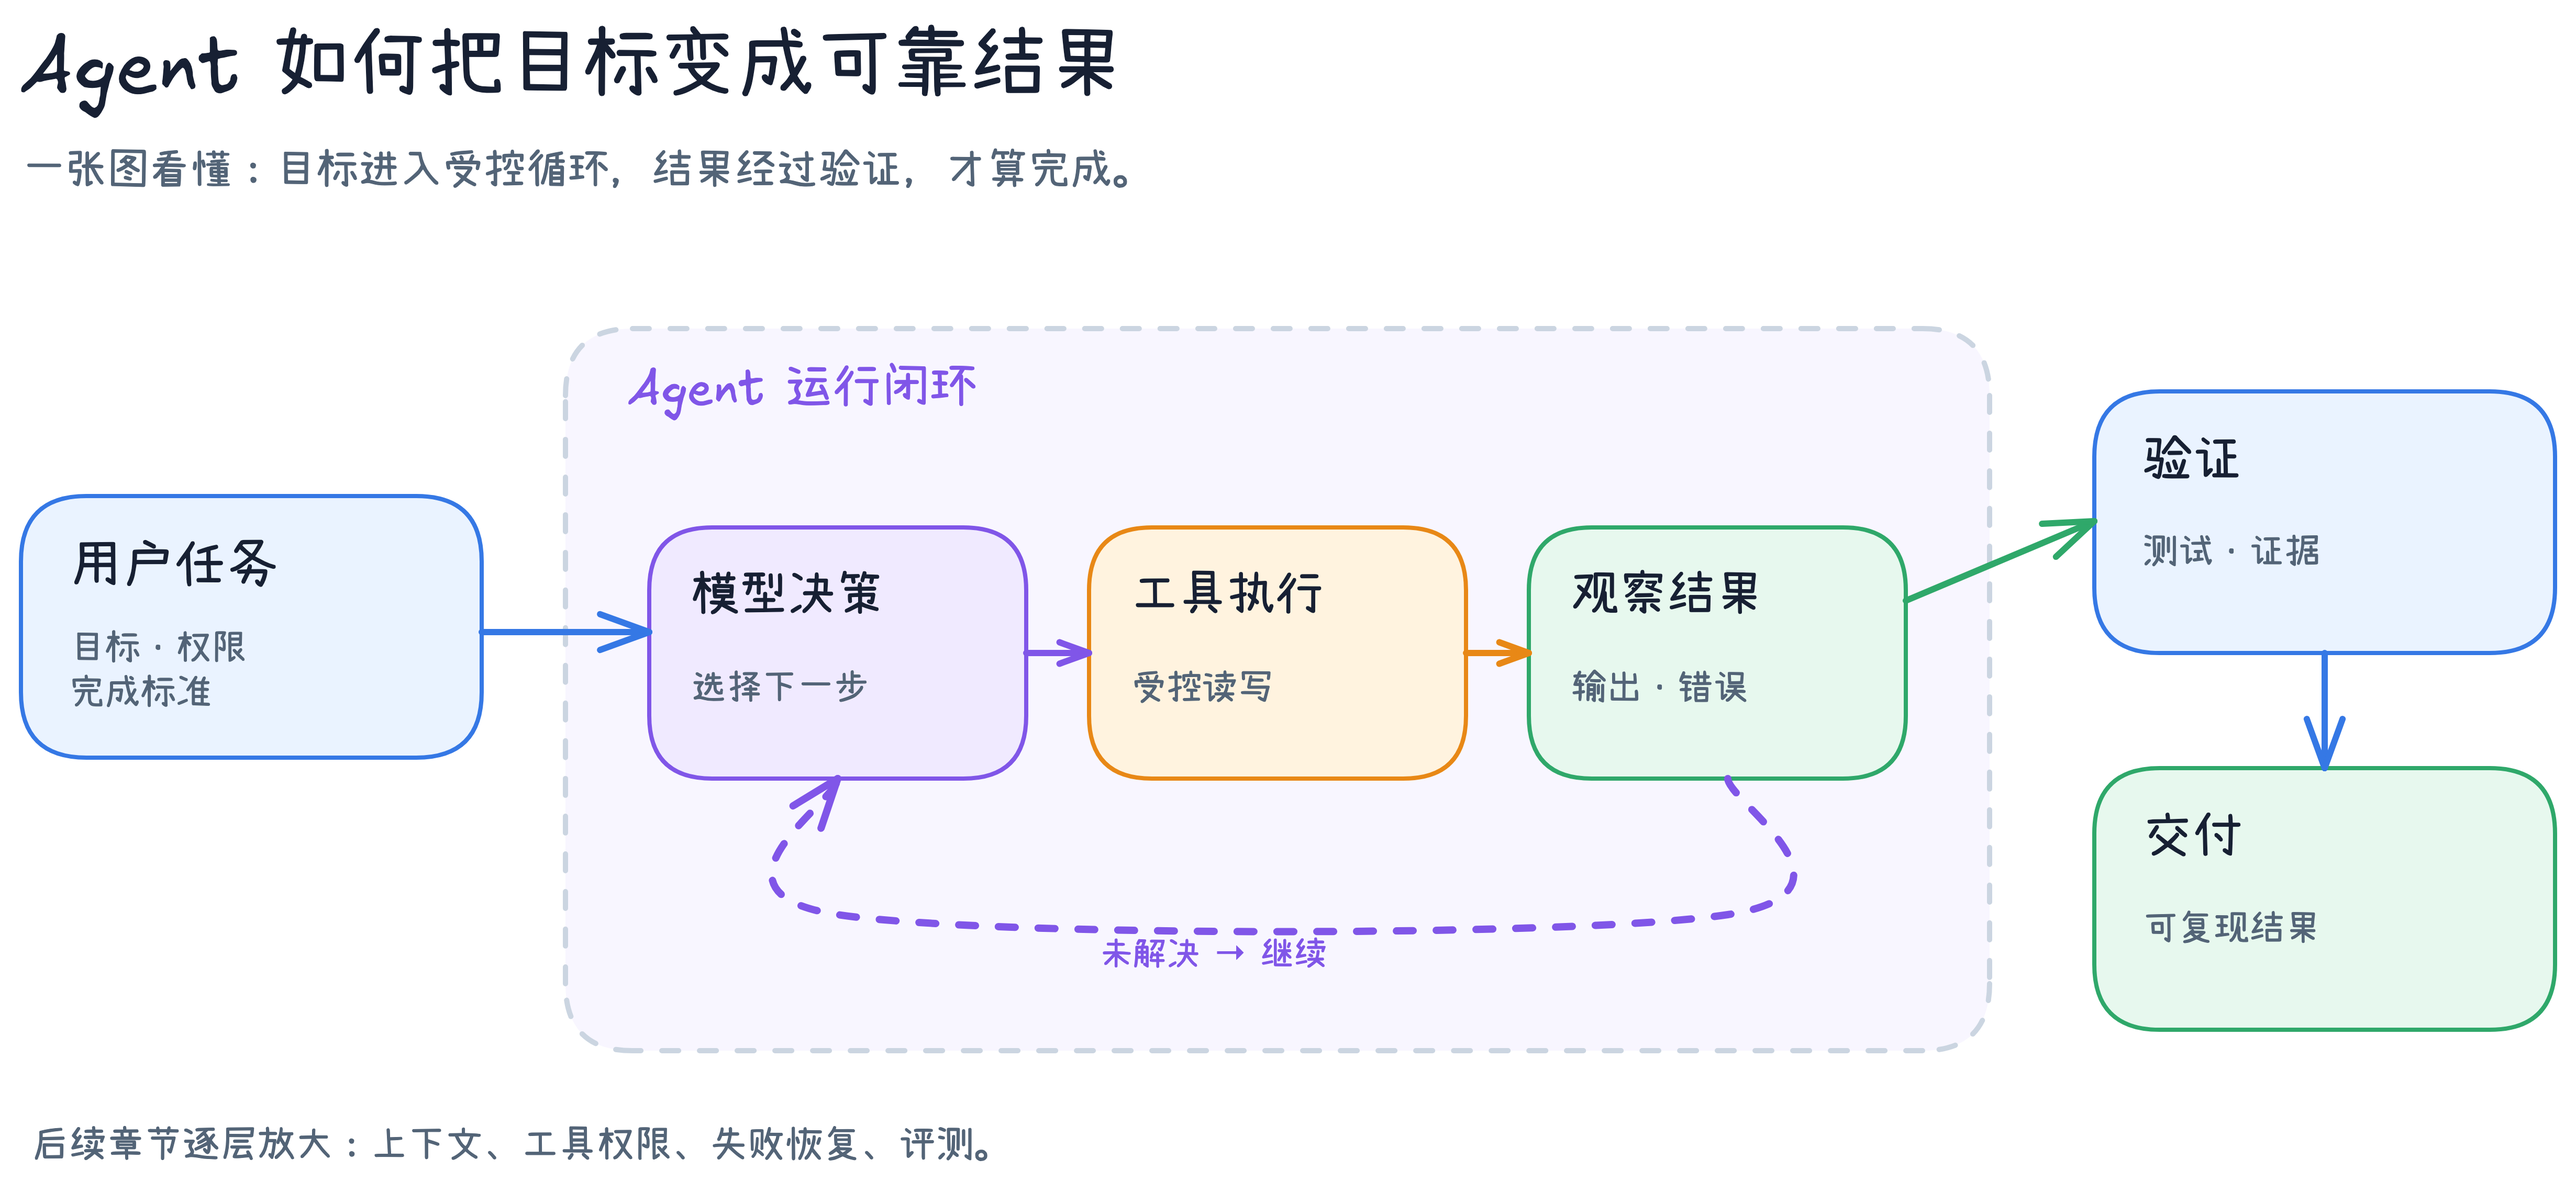
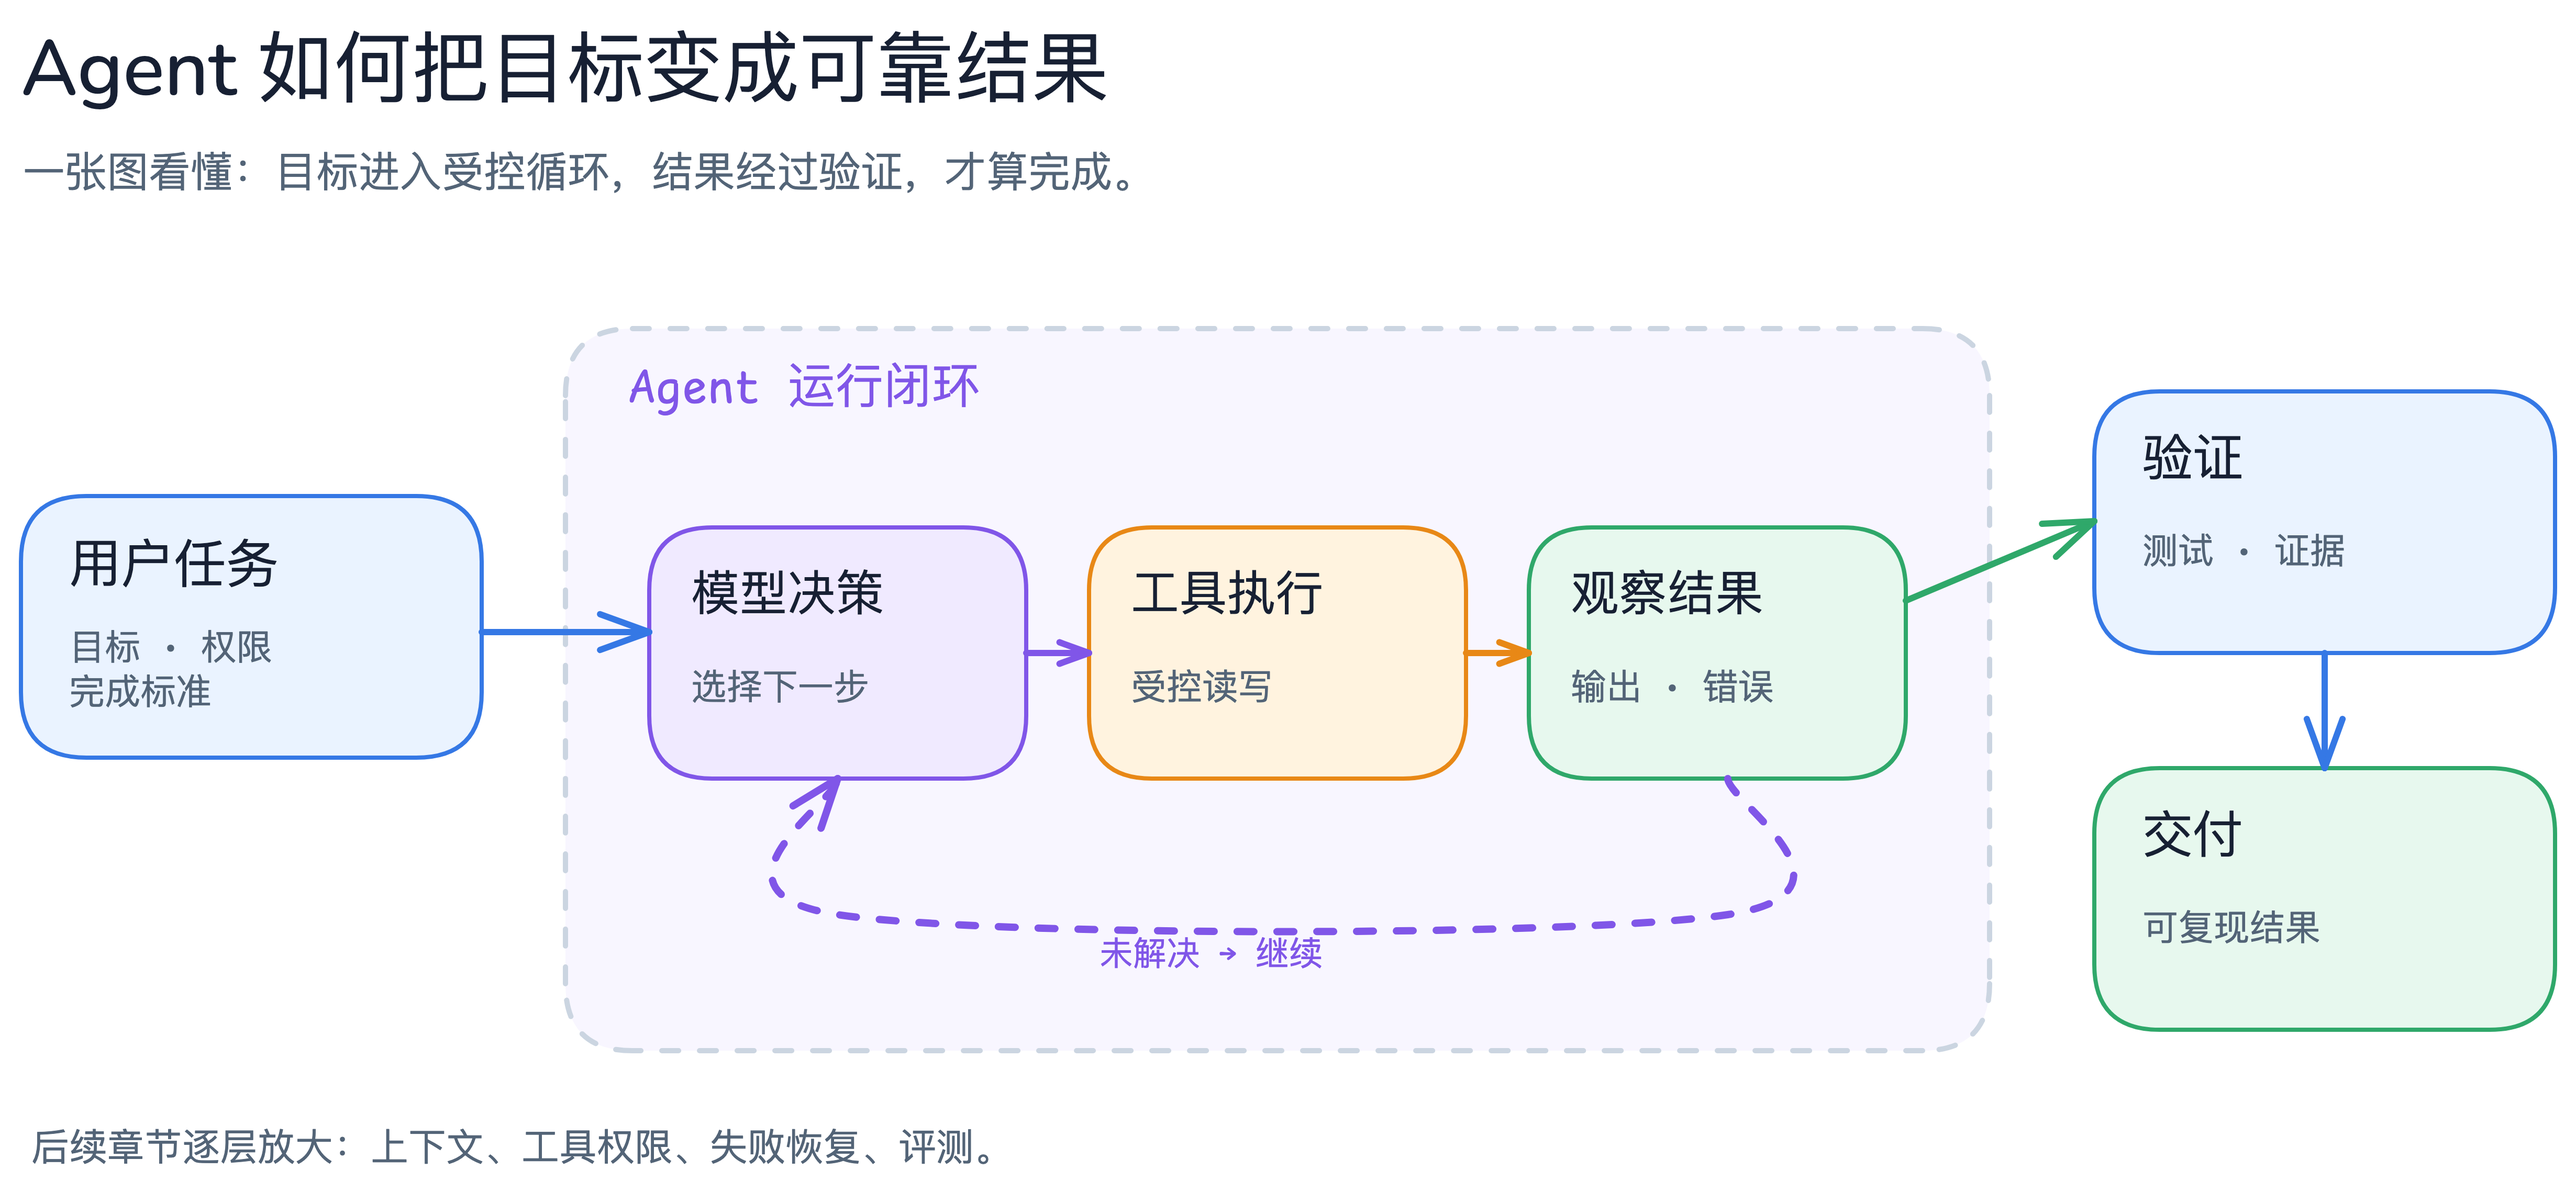
Refine guide roadmap and diagram typography

diff --git a/docs/roadmap.md b/docs/roadmap.md
@@ -11,6 +11,24 @@
 
 横向对照页回答“同一个机制为什么有不同实现”，不复制各项目剖面的全文。
 
+### 读者路线与章节骨架
+
+第一条是“从一次任务看完整生命周期”：目标和完成标准 → Agent loop → 工具调用与权限 → 结果验证 → 失败恢复。第二条是“状态如何延续”：消息与上下文装配 → 会话、截断与压缩 → 长期记忆与检索 → 跨任务复用。第三条是“把设计落到项目”：先看概念图，再进入固定版本的源码剖面，最后用横向对照理解取舍。三条路线互相链接，但不要求读者按项目名顺序阅读。
+
+每个机制章节先回答一个具体问题，随后给出最小例子、主图、逐步解读、边界与反例、系统映射和可核对的来源。图既是导航，也是正文的一部分；不能用一张“总架构图”代替状态变化和失败路径。
+
+| 机制主题 | 主图要回答的问题 | 优先连接的系统 |
+| --- | --- | --- |
+| Agent loop 与工具调用 | 模型何时决策、工具何时执行、结果怎样反馈？ | Pi、Codex、mini-SWE-agent |
+| 上下文管理 | 本轮输入由谁装配，窗口不够时丢弃或压缩什么？ | Pi、Codex、OpenCode |
+| 会话与长期记忆 | 当前任务历史、压缩摘要、跨任务记忆如何分层？ | Letta、OpenHands、Pi |
+| 权限与隔离 | 执行前在哪一层授权，风险操作怎样拦截？ | Codex、OpenHands、Cline |
+| 恢复与验证 | 中断、工具失败或错误结果之后怎样重试和判定完成？ | OpenHands、mini-SWE-agent、Browser Use |
+| 多 Agent 与委派 | 子任务怎样拆分、回收和对账，何时不值得委派？ | GPT Researcher、OpenClaw、Codex |
+| 评测与可观测 | 怎样记录轨迹、复现环境并避免把测试通过当真实有效？ | 按可复现证据选例 |
+
+表中的系统只是待核验的选题线索，不是已确认的实现归类。
+
 ## 首批范围
 
 | 阶段 | 交付 | 完成条件 |
@@ -21,10 +39,24 @@
 
 这不是完成清单。项目被列入候选不代表已完成调研或验证。
 
+### 选题门槛与工作顺序
+
+首批先把 Pi、Codex、Letta 做成“薄但可核对”的剖面，每篇只挑一个最能说明取舍的真实路径。其他候选按差异补位：OpenCode 看可扩展交互，OpenHands 看执行环境和状态，mini-SWE-agent 看最小循环；浏览器、研究型和终端型 Agent 只有在能提供新增机制案例时再进入正文。不要为了凑齐热门名单而牺牲深度。
+
+单篇工作顺序：列问题和可能的误解 → 固定仓库版本 → 画粗粒度事实链 → 查源码/文档并标注证据等级 → 补全失败或停止路径 → 生成可编辑图及导出 → 文字版与视觉验收 → 交叉链接。若某段证据不足，把它留为“待确认”，不填进图的事实层。
+
+### 近期可执行里程碑
+
+1. **视觉样章**：让 Agent loop 图确立字体、颜色、标注和导出规范；请 1–2 位不熟悉 Agent 的读者只看图与文字版，指出哪里看不懂。
+2. **最小机制链**：完成 Agent loop、工具权限、上下文装配三篇；每篇至少一张主图，必要时拆成状态变化图，不用超大一页图装下所有细节。
+3. **三种系统切面**：Pi、Codex、Letta 各一篇固定版本剖面，验证“轻量运行时、受控执行、持久记忆”是否真能形成有解释力的对照；不成立就调整样本。
+4. **公开预览**：完成链接、许可证、来源、图稿、移动端和外部读者复核，明确未完成章节；通过后才把私有筹备仓库转为公开。
+
 ## 每篇正式内容的验收
 
 - 读者能从图中说出关键组件、动作方向与停止/失败路径；图中没有无出处的实现细节。
 - `.excalidraw` 能重新导出 SVG/PNG，文字无裁切；交互画布若提供，也单独目视核对。
+- 标题、节点、注释遵循[图稿视觉规范](../figures/STYLE.md)；缩到 README 常见宽度仍能读，不能只在原尺寸下好看。
 - 源码结论带仓库、commit、文件/符号定位；运行结论附运行条件与结果。
 - 图下有文字版，不依赖颜色表达唯一含义；专业词汇进入术语表。
 - 原项目更名、迁移、归档或改变维护方向时，更新来源状态，不暗中把旧分析套到新版本。

diff --git a/figures/STYLE.md b/figures/STYLE.md
@@ -1,0 +1,27 @@
+# 图稿视觉规范（草案）
+
+[返回图稿约定](README.md)
+
+目标是接近 Excalidraw 中清晰、克制的技术图：标题好扫读，节点像代码卡片，但仍保留一点手绘线条感。参考图仅用于字体和版式方向，不复制其内容或布局。
+
+## 字体层级
+
+| 层级 | Excalidraw 字体 | 使用位置 |
+| --- | --- | --- |
+| 页面标题、导语、图下注释 | Normal / Nunito (`fontFamily: 6`) | 保持中文段落清楚，不用大段手写字 |
+| 节点标题、短标签、API/字段名 | Code / Comic Shanns (`fontFamily: 8`) | 让技术关系一眼可辨；中文由浏览器后备字形承接 |
+
+一张图最多两套字体。优先 18–24 px 的节点文字和足够的留白；若为长句，移到图下文字版。中文与英文混排、箭头标签和换行处必须看实际导出，不能只看编辑器中的文本框尺寸。字体是视觉约定，不是对所有系统都使用同一套配色的要求。
+
+## 结构和语义
+
+- 一张主图回答一个问题，按阅读顺序排布；框内写动作或状态，不堆完整段落。
+- 实线表示当前图所描述的正常路径；虚线只用于反馈、条件分支或明确标为未完成的路径，旁边写出语义。实现图的证据等级须在图下说明。
+- 用轻色背景分组，用稳定的边框色区分不同角色。颜色只做辅助，文字和箭头方向必须足以独立理解关系。
+- 概念图与固定版本的实现图视觉上保持同一家族，但不混用“教学抽象”和“源码事实”。
+
+## 导出与验收
+
+`.excalidraw` 是图源；SVG 用于 Markdown，PNG 用于视觉复核。修改后重新导出两者，检查标题、中文回退字体、边缘裁切、框内留白、箭头起止和 README 宽度下的可读性。图旁必须有等价文字说明。
+
+Excalidraw MCP 交互画布目前会把文本强制显示为 Excalifont，因此采用本规范的 Code 字体时，它与仓库 SVG/PNG **不能承诺字形一致**。交互画布用于探索和协作；对外发布的视觉结果以图源重新导出的 SVG/PNG 为准。若图必须在 MCP 里像素级一致，应另做 Excalifont 版本并分别验收，不能把两者称为同一次导出。

diff --git a/README.md b/README.md
@@ -25,6 +25,6 @@
 
 ## 图和文字的关系
 
-每张正式图都提供可编辑的 `.excalidraw`、供 Markdown 展示的 SVG、PNG 预览，以及文字说明。绘图与导出使用 [excalidraw-agent](https://github.com/chicogong/excalidraw-agent)；本地导出和交互画布需要分别检查，不能只凭工具返回“已显示”就宣称两者一致。[图稿规则](figures/README.md)
+每张正式图都提供可编辑的 `.excalidraw`、供 Markdown 展示的 SVG、PNG 预览，以及文字说明。绘图与导出使用 [excalidraw-agent](https://github.com/chicogong/excalidraw-agent)；本地导出和交互画布需要分别检查，不能只凭工具返回“已显示”就宣称两者一致。[图稿规则](figures/README.md) · [字体与视觉规范](figures/STYLE.md)
 
 本项目只收录原创图解、必要的短引文和指向原始资料的链接；不复制其他项目的大段文档，也不公开私人研究笔记。

diff --git a/AGENTS.md b/AGENTS.md
@@ -4,6 +4,7 @@
 
 - 概念图与项目实现图分开。项目事实必须落到固定 commit 的源码、官方文档或可复现运行记录；将事实、推断和未知明确区分。
 - 一张图只回答一个主要问题。`.excalidraw` 是图源；SVG、PNG 是从该图源导出的产物。每张图须有等价的文字说明。
+- 图稿遵循 `figures/STYLE.md`；Normal 标题与 Code 节点的本地导出是发布视觉基准，不声称 MCP 画布能保留这套字体。
 - 用 `excalidraw-agent` 绘图时，核对本地 PNG/SVG；通过 MCP 展示时，还须检查实际交互画布。MCP 检查点不是仓库文件。
 - 不用 Star 数或项目名替代选题理由。每个新增系统应提供一种尚未讲清的架构取舍。
 - 不把源码静态阅读说成运行验证；不把测试通过说成用户验收。

diff --git a/figures/README.md b/figures/README.md
@@ -4,4 +4,6 @@
 
 使用 [excalidraw-agent](https://github.com/chicogong/excalidraw-agent) 绘制和导出。发布前目视检查文字、箭头、边界、留白与移动端可读性。MCP 画布的成功返回只证明已接收，不证明与本地导出视觉一致；需要交互展示时还要检查实际画布。
 
+标题与节点字体、图形语义和导出验收见[视觉规范](STYLE.md)。当前采用 Normal 标题和 Code 节点；MCP 交互画布会强制使用另一字体，因此仓库 SVG/PNG 才是对外展示的视觉基准。
+
 概念图可以表达通用模型，但须说明它不是某个项目的内部结构。实现图只标固定源码版本中能核对的组件和路径。

diff --git a/figures/agent-loop/README.md b/figures/agent-loop/README.md
@@ -6,4 +6,4 @@
 
 它有意省略模型 API、会话存储、上下文压缩、人工审批和失败对账。这些会在专题图中分别展开，不应从这张图推断 Pi、Codex 或其他项目的具体代码结构。
 
-状态：**概念草稿**。本地 PNG 已目视检查；MCP 交互画布是否与本地导出完全一致，尚未由当前工具回读像素验证。
+状态：**概念草稿**。图源使用 Normal 标题与 Code 节点，SVG/PNG 均从同一 `.excalidraw` 导出并目视检查。MCP 交互画布会强制显示 Excalifont，不能把它当作这两份导出文件的字体校验。
